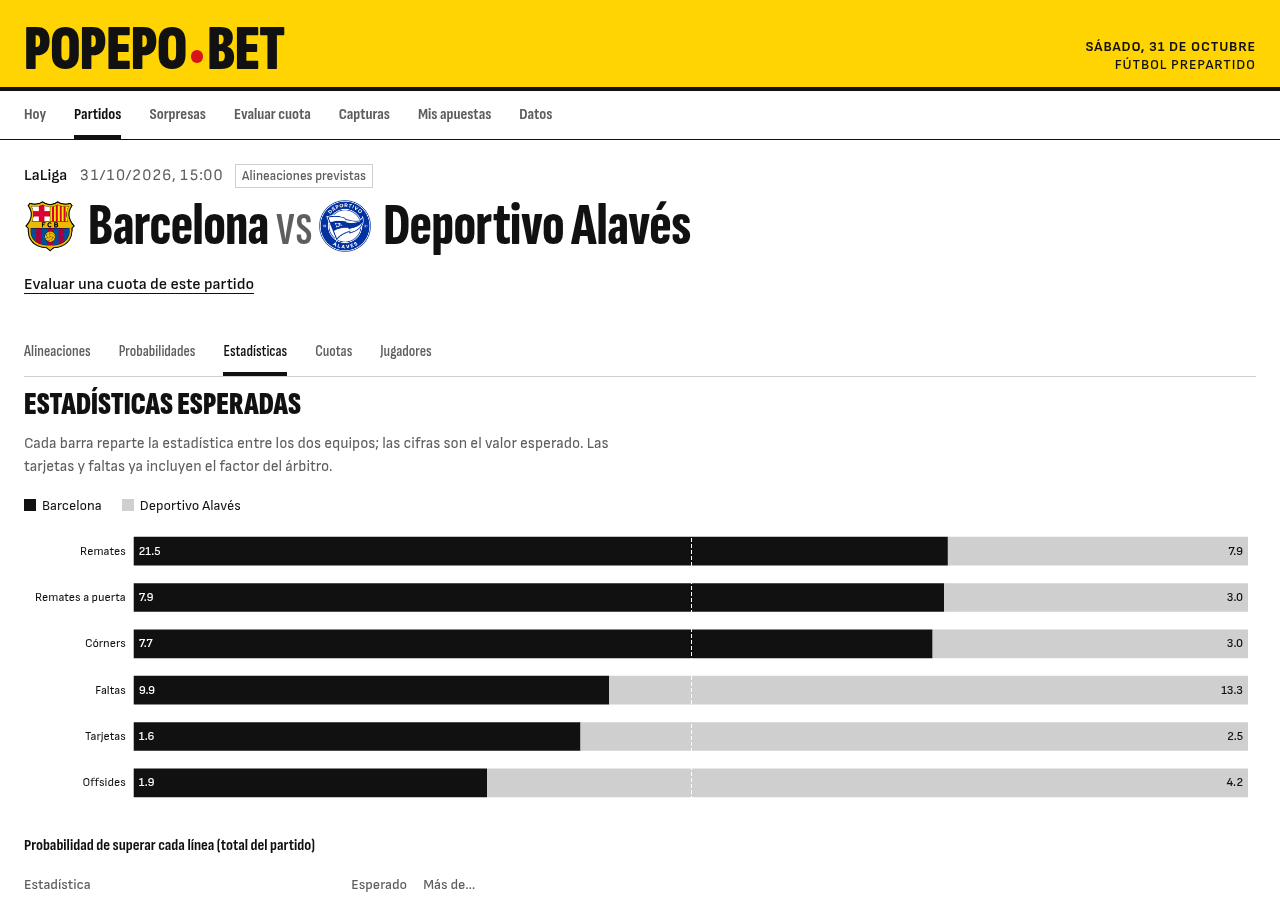
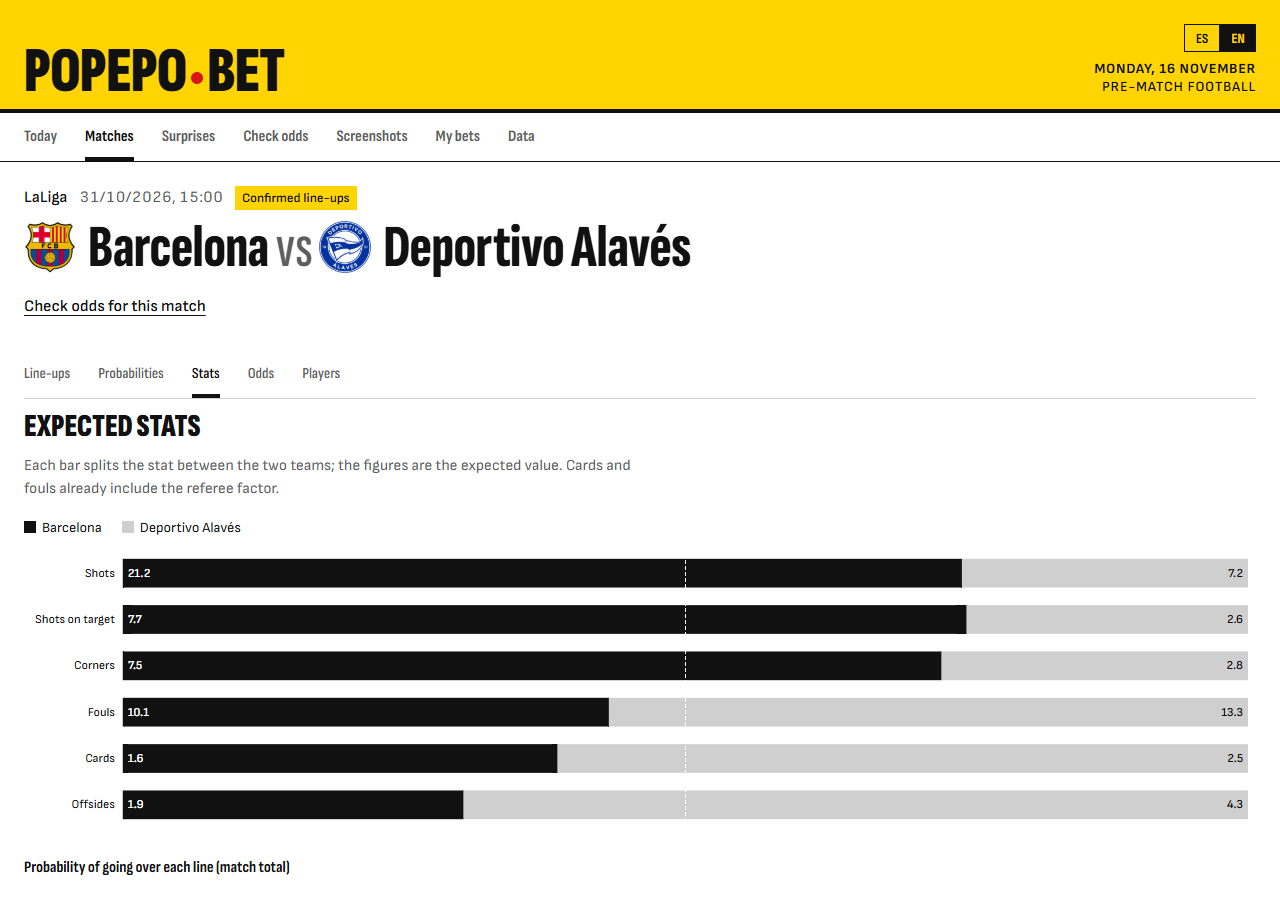
README: capturas del panel en inglés
Las del README seguían en español aunque el texto ya está en inglés. Se
rehicieron con el panel en inglés el derbi Milan-Inter y las estadísticas de
Barcelona-Alavés, y la tercera pasa a ser el radar de Sorpresas: la semana del
26-10 ya no tiene jugador de la semana (sus previas se perdieron con la PC
anterior) y el radar enseña equipos reales en racha y en baja. Las españolas
quedan en docs/img/es para README.es.md.

El driver de capturas encuentra Brave, Chrome o Edge en Windows.

diff --git a/docs/es/estado.md b/docs/es/estado.md
@@ -24,7 +24,7 @@
 - **Elegir el partido por liga en Evaluar cuota** (desde el 2026-10-31, propuesta A de tres maquetas, elegida por el dueño): una lista «Liga» con cuántos partidos tiene cada una encima de «Partido», que solo muestra los de esa liga. Si se llega con un partido en la dirección (desde Hoy o desde un partido), la liga se pone sola; al cambiar de liga, el partido de otra liga se vacía. No se recuerda entre visitas. Capturas sigue con la lista entera.
 - **Registrar desde Hoy** (desde el 2026-10-31): el titular de la apuesta del día y el nombre de cada apuesta que pasa el corte llevan a Evaluar cuota con el partido, el mercado, la línea, la cuota y la casa en la dirección (`?cuota=&casa=`); Evaluar la calcula al abrir y baja hasta el resultado, donde se registra. Next 16 conserva las páginas al navegar (Activity): Evaluar cuota y Capturas se vuelven a montar cuando la dirección trae otra apuesta o una captura nueva, porque leen la dirección solo al montarse (sin eso, si ya se había abierto Evaluar, llegaba vacío). Los equipos siguen llevando al análisis del partido. En días pasados no hay enlace.
 - **Panel en español e inglés** (desde el 2026-10-31): selector ES / EN en la banda amarilla de la cabecera. Se recuerda en el navegador (`apuestas.idioma`); sin elegir, sigue al idioma del navegador y, si no es español ni inglés, español. Mercados con los nombres de Betano en inglés (Over/Under, Both Teams To Score, Asian Handicap, Handicap (3-way)), fechas en inglés británico y el dinero siempre en soles (S/). Los textos de la API llegan traducidos: el panel manda `Accept-Language` y `api/i18n.py` traduce la respuesta con un catálogo de frases y plantillas (razones, avisos de contexto, etiquetas de apuestas, notas, clásicos y errores), sin tocar la BD, el bot ni el MCP, que siguen en español. Las explicaciones de Claude y los resúmenes de capturas quedan en el idioma en que se escribieron. La auditoría sale limpia en los dos idiomas.
-- **Documentación en inglés primero** (desde el 2026-11-16): `README.md` y todos los documentos de `docs/` (también los ADR) están en inglés; las versiones en español están en `README.es.md`, `web/README.es.md` y `docs/es/`, enlazadas con un selector de idioma arriba de cada una. Los cambios entre versiones van en `CHANGELOG.md`. El código, sus comentarios, la CLI, `AGENTS.md`, `CLAUDE.md`, las skills y `docs/superpowers/` siguen en español. El texto del «About» de GitHub lo cambia el dueño (no hay `gh` en la PC).
+- **Documentación en inglés primero** (desde el 2026-11-16): `README.md` y todos los documentos de `docs/` (también los ADR) están en inglés; las versiones en español están en `README.es.md`, `web/README.es.md` y `docs/es/`, enlazadas con un selector de idioma arriba de cada una. Las capturas del README son del panel en inglés (`docs/img/`); las españolas están en `docs/img/es/`. Los cambios entre versiones van en `CHANGELOG.md`. El código, sus comentarios, la CLI, `AGENTS.md`, `CLAUDE.md`, las skills y `docs/superpowers/` siguen en español. El texto del «About» de GitHub lo cambia el dueño (no hay `gh` en la PC).
 - **Sincronizar a mano** desde Datos (desde el 2026-10-23): un botón junto a «Fuentes» lanza en segundo plano lo de las 05:30 y las 08:30 con las fuentes gratuitas, liquida y reentrena (`services/sync.py`, `POST /sync`). Sin OddsPapi, una a la vez, con 10 minutos entre una y otra, y no arranca si el worker está descargando.
 - **Sorpresas** (desde el 2026-10-29, fusionado en `main` con el OK del dueño; antes «Semana»): la página tiene **Semana / Mes** (4 semanas completas, desde el 23-11), **En el radar** (equipos en racha y en baja y jugadores en racha de los últimos 28 días: batacazo = ganar con un 25 % o menos, pinchazo = perder con un 60 % o más), **avisos** en la apuesta del día, «Con valor», los partidos y la página del partido (no cambian la probabilidad ni el corte), **«Por qué falló»** en la apuesta del día perdida (previa frente a lo que pasó y si el radar lo avisaba) con una **explicación de Claude** a partir de noticias, y el **interruptor de la IA por usuario** al final de Datos (`services/radar.py`, `failure.py`, `ai_notes.py`; tabla `ai_note`; `GET /radar`, `/picks/{id}/failure`, `/me`). Primer caso real: Sassuolo +1 del 27-10, perdida 2-6 con Lazio en racha y su figura Kenneth Taylor en el campo. (Las previas guardadas y las explicaciones de la PC anterior se perdieron: la página se vuelve a llenar con los partidos desde el 11-11-2026.)
 - **Semana** (desde el 2026-10-24): página con el equipo, el jugador y el once de la semana y los 10 primeros (`GET /week`, MCP `resumen_semana`, `apuestas semana`). Los equipos se miden frente a la casa (resultado, goles y córners) y los jugadores frente a la **previa guardada** del modelo, que se empezó a guardar ese día (`services/predictions.py`: una por partido, la última antes del inicio). Cada dato suma de −1 a +1 según lo raro que fue (ADR 0006, `docs/modelos.md` sección 8).

diff --git a/docs/estado.md b/docs/estado.md
@@ -24,7 +24,7 @@ Last updated: 16 November 2026 (documentation in English first, with the Spanish
 - **Picking the match by league in Evaluate odds** (since 2026-10-31, proposal A of three mock-ups, chosen by the owner): a "League" list with how many matches each one has above "Match", which only shows that league's matches. If you arrive with a match in the address (from Today or from a match), the league is set by itself; when changing league, a match from another league is cleared. It isn't remembered between visits. Screenshots keeps the full list.
 - **Logging from Today** (since 2026-10-31): the bet of the day's headline and the name of each bet that clears the threshold lead to Evaluate odds with the match, market, line, odds and bookmaker in the address (`?cuota=&casa=`); Evaluate computes it on opening and scrolls down to the result, where it's logged. Next 16 keeps pages when navigating (Activity): Evaluate odds and Screenshots are remounted when the address brings another bet or a new screenshot, because they only read the address when mounting (without that, if Evaluate had already been opened, it arrived empty). The teams still lead to the match analysis. On past days there's no link.
 - **Dashboard in Spanish and English** (since 2026-10-31): ES / EN selector in the yellow band of the header. It's remembered in the browser (`apuestas.idioma`); if not chosen, it follows the browser's language and, if it's neither Spanish nor English, Spanish. Markets with Betano's English names (Over/Under, Both Teams To Score, Asian Handicap, Handicap (3-way)), dates in British English and money always in soles (S/). The API's texts arrive translated: the dashboard sends `Accept-Language` and `api/i18n.py` translates the response with a catalogue of phrases and templates (reasons, context warnings, bet labels, notes, derbies and errors), without touching the database, the bot or the MCP, which stay in Spanish. Claude's explanations and screenshot summaries stay in the language they were written in. The audit comes out clean in both languages.
-- **Documentation in English first** (since 2026-11-16): `README.md` and every document in `docs/` (including the ADRs) are in English; the Spanish versions are in `README.es.md`, `web/README.es.md` and `docs/es/`, linked from a language selector at the top of each one. Changes between versions are in `CHANGELOG.md`. The code, its comments, the CLI, `AGENTS.md`, `CLAUDE.md`, the skills and `docs/superpowers/` stay in Spanish. The GitHub "About" text is changed by the owner (there's no `gh` on the PC).
+- **Documentation in English first** (since 2026-11-16): `README.md` and every document in `docs/` (including the ADRs) are in English; the Spanish versions are in `README.es.md`, `web/README.es.md` and `docs/es/`, linked from a language selector at the top of each one. The README screenshots are of the English dashboard (`docs/img/`); the Spanish ones are in `docs/img/es/`. Changes between versions are in `CHANGELOG.md`. The code, its comments, the CLI, `AGENTS.md`, `CLAUDE.md`, the skills and `docs/superpowers/` stay in Spanish. The GitHub "About" text is changed by the owner (there's no `gh` on the PC).
 - **Manual sync** from Data (since 2026-10-23): a button next to "Sources" launches in the background what runs at 05:30 and 08:30 with the free sources, settles and retrains (`services/sync.py`, `POST /sync`). Without OddsPapi, one at a time, with 10 minutes between runs, and it doesn't start if the worker is downloading.
 - **Surprises** (since 2026-10-29, merged into `main` with the owner's OK; formerly "Week"): the page has **Week / Month** (4 full weeks, from 23-11), **On the radar** (teams on a hot and cold streak and players on a hot streak over the last 28 days: upset win = winning at 25 % or less, slip = losing at 60 % or more), **warnings** on the bet of the day, "Value", the matches and the match page (they don't change the probability or the threshold), **"Why it failed"** on a lost bet of the day (preview against what happened and whether the radar warned about it) with an **explanation by Claude** based on the news, and the **per-user AI switch** at the bottom of Data (`services/radar.py`, `failure.py`, `ai_notes.py`; table `ai_note`; `GET /radar`, `/picks/{id}/failure`, `/me`). First real case: Sassuolo +1 on 27-10, lost 2-6 to Lazio on a hot streak with their key player Kenneth Taylor on the pitch. (The saved previews and explanations from the previous PC were lost: the page fills up again with the matches from 11-11-2026.)
 - **Week** (since 2026-10-24): page with the team, player and XI of the week and the top 10 (`GET /week`, MCP `resumen_semana`, `apuestas semana`). Teams are measured against the bookmaker (result, goals and corners) and players against the model's **saved preview**, which started being saved that day (`services/predictions.py`: one per match, the last one before kick-off). Each item adds −1 to +1 depending on how unusual it was (ADR 0006, `docs/modelos.md` section 8).

diff --git a/README.md b/README.md
@@ -6,13 +6,13 @@
 
 **A football betting model that tells you when *not* to bet.** Most betting projects promise profits. This one backtests where its model does *not* beat the bookmaker, publishes it, and only suggests a bet of the day when a bet clears a value and confidence threshold. Some days the answer is "no bet today".
 
-![Milan-Inter, the Derby della Madonnina: predicted line-ups on the pitch, with each player's rating](docs/img/partido-derbi.png)
+![Milan-Inter, the Derby della Madonnina: line-ups on the pitch, with the derby label](docs/img/partido-derbi.png)
 
 **Pre-match** analysis for the **Premier League, Bundesliga, LaLiga, Serie A, Ligue 1, Primeira Liga (Portugal), Pro League (Belgium), Süper Lig (Turkey) and Champions League**, plus the **UEFA Nations League** (national teams: analysis and odds, but no bet of the day and no player markets). It computes the probability of every market (goals, handicaps, shots, corners, fouls, cards, offsides and players) and compares it with the bookmaker's odds (bet365, Betano) and with Pinnacle's fair price. Use it from a **web dashboard**, from Claude (or any other agent) through **MCP**, from a **REST API** or from **Telegram**. All on free data.
 
-| Expected stats for each team | Surprises of the week |
+| Expected stats for each team | On the radar: teams on a run and in a slump |
 |---|---|
-| ![Barcelona-Alavés: expected shots, corners, fouls, cards and offsides for each team](docs/img/estadisticas.png) | ![Team and player of the week: who beat what the bookmaker and the model expected](docs/img/sorpresas.png) |
+| ![Barcelona-Alavés: expected shots, corners, fouls, cards and offsides for each team](docs/img/estadisticas.png) | ![Surprises radar: teams that beat or fell short of what the bookmaker expected over the last 4 weeks](docs/img/radar.png) |
 
 It doesn't promise profits: the backtest honestly shows where the model does not beat the bookmaker (see [below](#backtest-results-honest)). Ideas, bugs or a missing league? Open an *issue*, in English or Spanish.
 

diff --git a/README.es.md b/README.es.md
@@ -6,13 +6,13 @@
 
 **Un modelo de apuestas de fútbol que te dice cuándo no apostar.** La mayoría de los proyectos de apuestas prometen ganar. Este mide con backtest dónde su modelo no le gana a la casa, lo publica, y solo propone una apuesta del día cuando pasa un corte de valor y confianza. Algunos días la respuesta es «hoy no hay apuesta».
 
-![Milan-Inter, el Derby della Madonnina: alineaciones previstas en el campo, con el rating de cada jugador](docs/img/partido-derbi.png)
+![Milan-Inter, el Derby della Madonnina: alineaciones previstas en el campo, con el rating de cada jugador](docs/img/es/partido-derbi.png)
 
 Análisis **prepartido** de la **Premier League, Bundesliga, LaLiga, Serie A, Ligue 1, Primeira Liga (Portugal), Pro League (Bélgica), Süper Lig (Turquía) y Champions League**, y de la **UEFA Nations League** (selecciones: análisis y cuotas, sin apuesta del día ni mercados de jugador). Calcula la probabilidad de cada mercado (goles, hándicaps, remates, córners, faltas, tarjetas, offsides y jugadores), la compara con la cuota de la casa (bet365, Betano) y con el precio justo de Pinnacle. Se usa desde un **panel web**, desde Claude (u otro agente) por **MCP**, por **API REST** o por **Telegram**. Todo con datos gratuitos.
 
 | Estadísticas esperadas de cada equipo | Sorpresas de la semana |
 |---|---|
-| ![Barcelona-Alavés: remates, córners, faltas, tarjetas y offsides esperados de cada equipo](docs/img/estadisticas.png) | ![Equipo y jugador de la semana: quién superó lo que esperaban la casa y el modelo](docs/img/sorpresas.png) |
+| ![Barcelona-Alavés: remates, córners, faltas, tarjetas y offsides esperados de cada equipo](docs/img/es/estadisticas.png) | ![Equipo y jugador de la semana: quién superó lo que esperaban la casa y el modelo](docs/img/es/sorpresas.png) |
 
 No promete ganancias: el backtest dice con honestidad dónde el modelo no le gana a la casa (ver [más abajo](#resultado-del-backtest-honesto)). ¿Ideas, fallos o una liga que falta? Abre un *issue*, en español o en inglés.
 

diff --git a/.claude/skills/run-app-apuestas/SKILL.md b/.claude/skills/run-app-apuestas/SKILL.md
@@ -126,6 +126,15 @@ cd web && npm run lint && npx tsc --noEmit
   lo cuenta como desborde; en la captura se ven cortados con un difuminado y una flecha, que es lo esperado.
 - **Desde localhost la API no pide clave**; si el panel se abriera desde otro host, pediría la clave en pantalla.
 
+- **Windows sin WSL** (la PC del dueño desde el 15-11-2026): no hay systemd; se arranca con `scripts/arrancar.sh`.
+  El driver encuentra Brave, Chrome o Edge en sus rutas de Windows. En Git Bash, una ruta como `/partidos/5498` se
+  convierte en ruta de Windows antes de llegar al driver: pon `MSYS_NO_PATHCONV=1` delante del comando. `/tmp` no
+  existe igual: usa `SHOTS_DIR=<carpeta>`.
+- **Capturas del README** (`docs/img/`, en inglés; las españolas en `docs/img/es/`): escritorio, tema claro y
+  `--viewport` (1280×900), con `--lang en`: el derbi Milan-Inter (`/partidos/5498`), las estadísticas de
+  Barcelona-Alavés (`/partidos/3989#estadisticas`) y el radar de Sorpresas (sección «On the radar» de
+  `/sorpresas`, recortada a 1280×900).
+
 ## Problemas
 
 - **`panel … → SIN RESPUESTA (ECONNREFUSED)`**: el servicio está parado o recompilando.

diff --git a/CHANGELOG.md b/CHANGELOG.md
@@ -6,6 +6,10 @@ Versions up to 0.8.0 were reconstructed on 16-11-2026 from the git history and `
 
 ## [Unreleased]
 
+### Changed
+- The README screenshots show the dashboard in English (`docs/img/`), with a new one of the Surprises radar; the Spanish ones moved to `docs/img/es/` for `README.es.md`.
+- The screenshot driver finds Brave, Chrome or Edge on Windows.
+
 ## [0.8.0] - 16-11-2026
 
 ### Added
